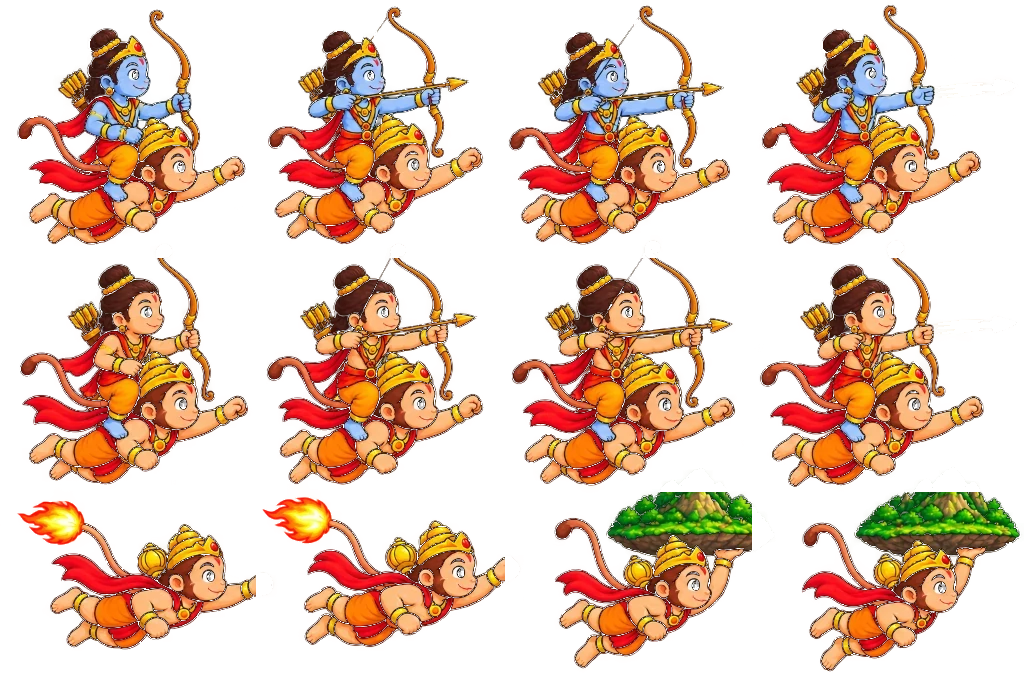
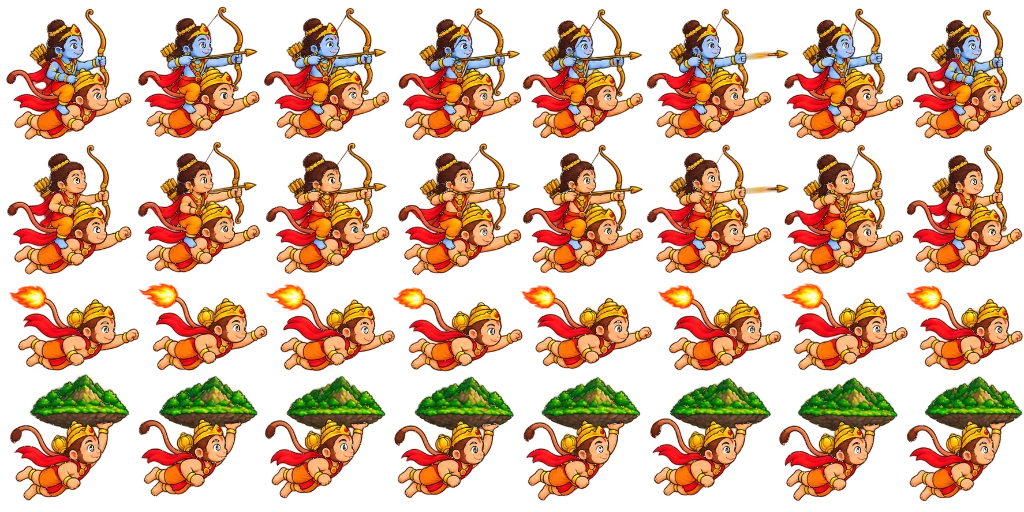
Fly the new rider sprites, and make the way home much harder with Pushpak to ease it.
The riders sheet now has eight frames each of Ram, Lakshman, the burning tail
and the sanjeevani mountain, anchored on Hanumanji's head. Hanumanji sets the
mountain down when Lakshman revives, so Shri Ram and Lakshman ride the rest
of the battle.

Past Ravan the flight jumps faster, narrower and swings wider, then tightens
over forty gates. The golden Pushpak comes every ten gates or so and slows
the swinging gates and the flight for five seconds. Runs that end before
Ravan replay exactly as before.

diff --git a/pages/play/lanka-leap/index.vue b/pages/play/lanka-leap/index.vue
@@ -171,6 +171,7 @@
 
 <script setup lang="ts">
 import {
+  calmFor,
   createRun,
   flameTop,
   gapShift,
@@ -186,6 +187,7 @@ import {
   PILLAR_WIDTH,
   SEA_LEVEL,
   SIMHIKA_REACH,
+  CALM_TICKS,
   TICK_MS,
   WORLD_HEIGHT,
   WORLD_WIDTH
@@ -367,7 +369,7 @@ type HeroFrame = readonly [x: number, y: number, w: number, h: number, ax: numbe
 const HERO_SHEET_SRC = '/games/lanka-leap/hanuman-sheet.webp'
 const RIDER_SHEET_SRC = '/games/lanka-leap/riders-sheet.webp'
 const HERO_SHEET_SCALE = 0.45
-const RIDER_SCALE = 0.46
+const RIDER_SCALE = 0.86
 const HERO_GLIDE: HeroFrame[] = [
   [26, 41, 235, 148, 183, 105],
   [279, 41, 231, 148, 425, 106],
@@ -385,43 +387,67 @@ const HERO_DIVE: HeroFrame[] = [
   [308, 442, 201, 204, 453, 549],
 ]
 const HERO_CHEER: HeroFrame = [804, 442, 183, 204, 902, 506]
-/** Ram draws, aims, looses, and the arrow flies. Then Lakshman takes the same shot. */
+/**
+ * Riders sheet: eight frames a row, each a separate figure. Rows overlap by a few
+ * pixels, so the boxes are trimmed to each figure. Ram draws and looses, then Lakshman.
+ */
 const RAM_SHOT: HeroFrame[] = [
-  [17, 9, 229, 249, 116, 152],
-  [268, 6, 216, 252, 350, 152],
-  [509, 5, 221, 253, 596, 152],
-  [762, 5, 255, 253, 854, 152],
+  [4, 6, 130, 136, 88, 95],
+  [136, 4, 126, 136, 215, 94],
+  [262, 5, 130, 136, 344, 94],
+  [396, 6, 126, 137, 475, 95],
+  [522, 7, 123, 134, 599, 96],
+  [645, 6, 139, 135, 725, 95],
+  [789, 6, 117, 136, 858, 96],
+  [905, 7, 119, 134, 984, 96],
 ]
 const LAKSHMAN_SHOT: HeroFrame[] = [
-  [20, 258, 228, 227, 116, 386],
-  [266, 258, 218, 227, 356, 386],
-  [511, 258, 224, 234, 602, 386],
-  [760, 258, 257, 234, 854, 386],
+  [5, 142, 129, 135, 87, 230],
+  [136, 140, 126, 135, 215, 229],
+  [264, 140, 128, 136, 345, 230],
+  [396, 141, 126, 137, 474, 232],
+  [522, 142, 123, 134, 599, 231],
+  [645, 142, 139, 134, 724, 232],
+  [789, 142, 117, 134, 858, 232],
+  [905, 143, 119, 132, 983, 232],
 ]
 const FIRE_TAIL: HeroFrame[] = [
-  [17, 501, 239, 149, 104, 602],
-  [256, 497, 249, 150, 356, 602],
+  [6, 283, 132, 90, 95, 331],
+  [139, 281, 126, 92, 226, 330],
+  [268, 282, 125, 91, 355, 331],
+  [395, 285, 126, 89, 481, 333],
+  [523, 283, 131, 88, 608, 330],
+  [656, 283, 126, 90, 741, 331],
+  [782, 281, 123, 92, 867, 330],
+  [908, 283, 116, 90, 989, 331],
 ]
 const SANJIVINI: HeroFrame[] = [
-  [505, 492, 247, 177, 608, 614],
-  [752, 492, 268, 180, 866, 614],
+  [8, 372, 124, 131, 83, 450],
+  [136, 374, 124, 125, 209, 449],
+  [263, 374, 125, 127, 336, 449],
+  [392, 374, 124, 126, 467, 451],
+  [521, 375, 122, 128, 592, 451],
+  [648, 375, 125, 123, 719, 451],
+  [777, 375, 123, 128, 850, 452],
+  [904, 374, 120, 130, 977, 451],
 ]
 
 type HeroLook = { frame: HeroFrame; scale: number; sheet: 'hero' | 'rider' }
 
 function heroLook(now: number): HeroLook {
-  const tick = Math.floor(now / 110)
+  const tick = Math.floor(now / 90)
   if (run.carryingMountain) {
-    const held = Math.floor(now / 420)
-    return { frame: SANJIVINI[held % SANJIVINI.length]!, scale: RIDER_SCALE, sheet: 'rider' }
+    const flap = Math.floor(now / 80)
+    return { frame: SANJIVINI[flap % SANJIVINI.length]!, scale: RIDER_SCALE, sheet: 'rider' }
   }
   if (!run.reachedRavan && (run.reachedBattle || battleGlow() > 0.45)) {
-    const step = Math.floor(now / 95)
-    const brother = Math.floor(step / 4) % 2 === 0 ? RAM_SHOT : LAKSHMAN_SHOT
-    return { frame: brother[step % 4]!, scale: RIDER_SCALE, sheet: 'rider' }
+    const step = Math.floor(now / 70)
+    const brother = Math.floor(step / 24) % 2 === 0 ? RAM_SHOT : LAKSHMAN_SHOT
+    return { frame: brother[step % 8]!, scale: RIDER_SCALE, sheet: 'rider' }
   }
   if (fireBlend() > 0.2) {
-    return { frame: FIRE_TAIL[tick % FIRE_TAIL.length]!, scale: RIDER_SCALE, sheet: 'rider' }
+    const flare = Math.floor(now / 65)
+    return { frame: FIRE_TAIL[flare % FIRE_TAIL.length]!, scale: RIDER_SCALE, sheet: 'rider' }
   }
   if (phase.value === 'over' && run.reachedLanka) return { frame: HERO_CHEER, scale: HERO_SHEET_SCALE, sheet: 'hero' }
   if (phase.value === 'playing' || phase.value === 'paused') {
@@ -461,7 +487,7 @@ const deathTitle = computed(() => lastRun.value ? DEATH_TITLES[lastRun.value.cau
 const deathTip = computed(() => {
   if (!lastRun.value) return ''
   if (lastRun.value.cause === 'field' && lastRun.value.reachedRavan) {
-    return 'The way home swings and closes in. Short taps keep Hanumanji in the gap.'
+    return 'The way home swings fast and closes in. Take the golden Pushpak and the gates slow for a while.'
   }
   return DEATH_TIPS[lastRun.value.cause]
 })
@@ -538,7 +564,9 @@ function handleEvents() {
     else if (event === 'bridge') showBanner('Shri Ram and Lakshman cross with the vanaras')
     else if (event === 'sanjeevani') showBanner('Sanjeevani: Hanumanji carries the mountain')
     else if (event === 'battle') showBanner('The battle for Lanka')
-    else if (event === 'ravan') showBanner('Ravan has fallen. Jai Shri Ram')
+    else if (event === 'revive') showBanner('Lakshman revives. Shri Ram and Lakshman ride on')
+    else if (event === 'ravan') showBanner('Ravan has fallen. Fly for Ayodhya')
+    else if (event === 'pushpak') showBanner('Pushpak: the way home steadies')
   }
 }
 
@@ -1590,11 +1618,11 @@ function drawObstacle(c: CanvasRenderingContext2D, o: Obstacle, sx: number, now:
   } else if (o.kind === 'setu' || o.kind === 'stone') {
     drawBridgeStone(c, o, sx)
   } else if (o.kind === 'field') {
-    drawChariot(c, o, sx, gapShift(o, run.tick))
+    drawChariot(c, o, sx, gapShift(o, run.swing))
   } else if (o.kind === 'ravan') {
-    drawRavan(c, o, sx, gapShift(o, run.tick))
+    drawRavan(c, o, sx, gapShift(o, run.swing))
   } else if (o.kind === 'dawn') {
-    drawDawnGate(c, o, sx, gapShift(o, run.tick))
+    drawDawnGate(c, o, sx, gapShift(o, run.swing))
   } else {
     drawStormColumn(c, sx, o.gapTop)
     if (o.kind === 'surasa') {
@@ -1620,7 +1648,7 @@ function drawObstacle(c: CanvasRenderingContext2D, o: Obstacle, sx: number, now:
   const p = o.pickup
   if (!p || p.taken) return
   const px = p.x - run.distance
-  const py = p.y + gapShift(o, run.tick)
+  const py = p.y + gapShift(o, run.swing)
   const pulse = 1 + Math.sin(now / 180) * 0.12
   if (p.kind === 'sanjeevani') {
     const glow = c.createRadialGradient(px, py, 2, px, py, 16 * pulse)
@@ -1636,6 +1664,9 @@ function drawObstacle(c: CanvasRenderingContext2D, o: Obstacle, sx: number, now:
     c.ellipse(px + 6, py, 7, 3.5, 0.6, 0, Math.PI * 2)
     c.fill()
     drawLabel(c, 'Sanjeevani', px, py - 18)
+  } else if (p.kind === 'pushpak') {
+    drawPushpak(c, px, py, pulse)
+    drawLabel(c, 'Pushpak', px, py - 28)
   } else if (p.kind === 'tulsi') {
     c.fillStyle = '#16a34a'
     c.save()
@@ -1658,6 +1689,45 @@ function drawObstacle(c: CanvasRenderingContext2D, o: Obstacle, sx: number, now:
     c.arc(px, py, 12 * pulse, 0, Math.PI * 2)
     c.fill()
   }
+}
+
+/** Ram’s flying vimana: a golden hull under a small spired canopy. */
+function drawPushpak(c: CanvasRenderingContext2D, px: number, py: number, pulse: number) {
+  c.save()
+  c.translate(px, py)
+  c.scale(1.35, 1.35)
+  const glow = c.createRadialGradient(0, 0, 2, 0, 0, 20 * pulse)
+  glow.addColorStop(0, 'rgba(255, 251, 235, 0.95)')
+  glow.addColorStop(1, 'rgba(245, 158, 11, 0)')
+  c.fillStyle = glow
+  c.beginPath()
+  c.arc(0, 0, 20 * pulse, 0, Math.PI * 2)
+  c.fill()
+  c.fillStyle = '#b45309'
+  c.beginPath()
+  c.moveTo(-15, 1)
+  c.quadraticCurveTo(0, 11, 15, 1)
+  c.lineTo(11, -1)
+  c.lineTo(-11, -1)
+  c.closePath()
+  c.fill()
+  c.fillStyle = '#fbbf24'
+  c.beginPath()
+  c.moveTo(-8, -1)
+  c.quadraticCurveTo(-8, -11, 0, -13)
+  c.quadraticCurveTo(8, -11, 8, -1)
+  c.closePath()
+  c.fill()
+  c.fillStyle = '#fef3c7'
+  c.fillRect(-1, -18, 2, 6)
+  c.fillStyle = '#dc2626'
+  c.beginPath()
+  c.moveTo(1, -18)
+  c.lineTo(7, -16)
+  c.lineTo(1, -14)
+  c.closePath()
+  c.fill()
+  c.restore()
 }
 
 function waveY(x: number, base: number, amp: number, shift: number) {
@@ -1958,10 +2028,13 @@ function drawHero(c: CanvasRenderingContext2D, now: number) {
   const alight = fireBlend()
   const lifted = run.carryingMountain || run.greatLeap || run.floatTicks > 0
   const fighting = !run.reachedRavan && (run.reachedBattle || battleGlow() > 0.45)
-  if (run.shield || run.shrinkTicks > 0 || alight > 0.05 || lifted || fighting) {
+  const calm = calmFor(run)
+  if (run.shield || run.shrinkTicks > 0 || alight > 0.05 || lifted || fighting || calm > 0) {
     c.shadowColor = run.shrinkTicks > 0
       ? 'rgba(56, 189, 248, 0.95)'
-      : lifted
+      : calm > 0
+        ? `rgba(253, 224, 71, ${0.5 + 0.45 * calm})`
+        : lifted
         ? 'rgba(22, 163, 74, 0.95)'
         : fighting
           ? 'rgba(251, 191, 36, 0.9)'
@@ -1975,8 +2048,6 @@ function drawHero(c: CanvasRenderingContext2D, now: number) {
     const [x, y, w, h, ax, ay] = look.frame
     const s = look.scale
     c.drawImage(sheet, x, y, w, h, (x - ax) * s, (y - ay) * s, w * s, h * s)
-    const fireIndex = FIRE_TAIL.indexOf(look.frame)
-    if (fireIndex >= 0) drawFireFist(c, fireIndex)
   } else if (heroSheet?.complete && heroSheet.naturalWidth) {
     const [x, y, w, h, ax, ay] = HERO_GLIDE[0]!
     const s = HERO_SHEET_SCALE
@@ -1992,28 +2063,6 @@ function drawHero(c: CanvasRenderingContext2D, now: number) {
     drawTailFlame(c, now)
   }
   c.restore()
-}
-
-/** The fire drawing stops at a flat cut where the fist should close. */
-const FIRE_FIST = [
-  { x: 252, y: 586 },
-  { x: 506, y: 571 }
-] as const
-
-function drawFireFist(c: CanvasRenderingContext2D, index: number) {
-  const frame = FIRE_TAIL[index]!
-  const spot = FIRE_FIST[index]!
-  const scale = RIDER_SCALE
-  const cx = (spot.x - frame[4]) * scale
-  const cy = (spot.y - frame[5]) * scale
-  c.beginPath()
-  c.fillStyle = '#5c1a08'
-  c.arc(cx, cy, 5.6, 0, Math.PI * 2)
-  c.fill()
-  c.beginPath()
-  c.fillStyle = '#ffbb7e'
-  c.arc(cx - 0.4, cy - 0.3, 4.2, 0, Math.PI * 2)
-  c.fill()
 }
 
 function drawTailFlame(c: CanvasRenderingContext2D, now: number) {
@@ -2079,6 +2128,13 @@ function drawHud(c: CanvasRenderingContext2D) {
     c.fillStyle = '#ca8a04'
     c.font = 'bold 11px system-ui, sans-serif'
     c.fillText('Mainak ✦', WORLD_WIDTH - 94, run.shrinkTicks > 0 ? 56 : 28)
+  }
+  if (run.calmTicks > 0) {
+    const y = run.shrinkTicks > 0 || run.shield ? 56 : 18
+    c.fillStyle = 'rgba(217, 119, 6, 0.9)'
+    c.fillRect(WORLD_WIDTH - 94, y, 80 * (run.calmTicks / CALM_TICKS), 8)
+    c.font = 'bold 11px system-ui, sans-serif'
+    c.fillText('Pushpak', WORLD_WIDTH - 94, y + 22)
   }
   if (run.carryingMountain) {
     c.textAlign = 'left'

diff --git a/components/LankaLeapRules.vue b/components/LankaLeapRules.vue
@@ -8,8 +8,9 @@
     <li>Over <StoryLink id="simhika">Simhika</StoryLink>’s dark water, stay high. She seizes your shadow and drags you down.</li>
     <li>Pass <StoryLink id="lankini">Lankini</StoryLink>’s gate and Lanka catches light. Fly the rooftops and stay above the rising flames.</li>
     <li>After the fire, <StoryLink id="setu">Shri Ram, Lakshman and the vanaras</StoryLink> cross the sea. The way opens above the bridge.</li>
-    <li>On the <StoryLink id="battle">battlefield</StoryLink> the chariots rise and fall. One green sanjeevani waits there. Take it and Hanumanji carries the mountain until Ravan.</li>
-    <li>Pass <StoryLink id="ravan">Ravan</StoryLink>’s chariot and he falls. The way home then swings faster and the gaps close in. Every gate still scores a point. Fly as often as you like; your highest score of all time is kept.</li>
+    <li>On the <StoryLink id="battle">battlefield</StoryLink> the chariots rise and fall. One green sanjeevani waits there. Take it and Hanumanji carries the mountain until Lakshman revives. Then Shri Ram and Lakshman ride on his shoulders into battle.</li>
+    <li>Pass <StoryLink id="ravan">Ravan</StoryLink>’s chariot and he falls. The way home is the hardest flight of all: faster, narrower, and the gates swing wide. Every gate still scores a point.</li>
+    <li>On the way home, fly through the golden Pushpak. For a few seconds the gates slow almost to a stop and the flight eases. Another comes every ten gates or so. Fly as often as you like; your highest score of all time is kept.</li>
   </ol>
   <p class="mt-3 text-xs">
     Tap a name to read the story.
